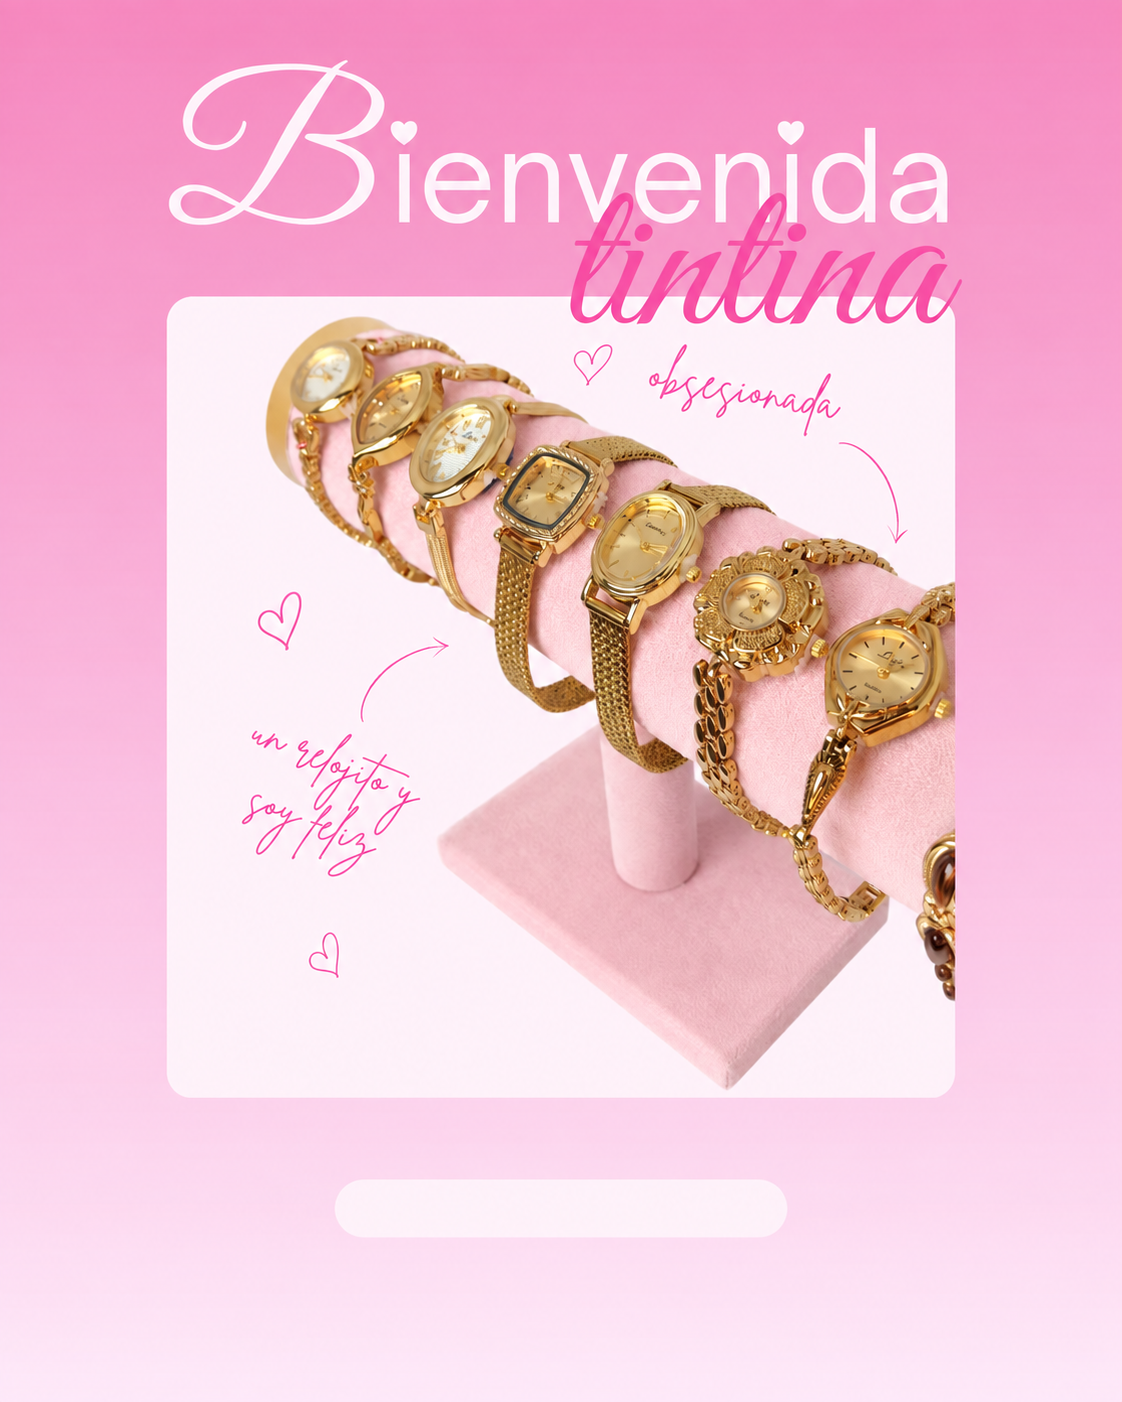
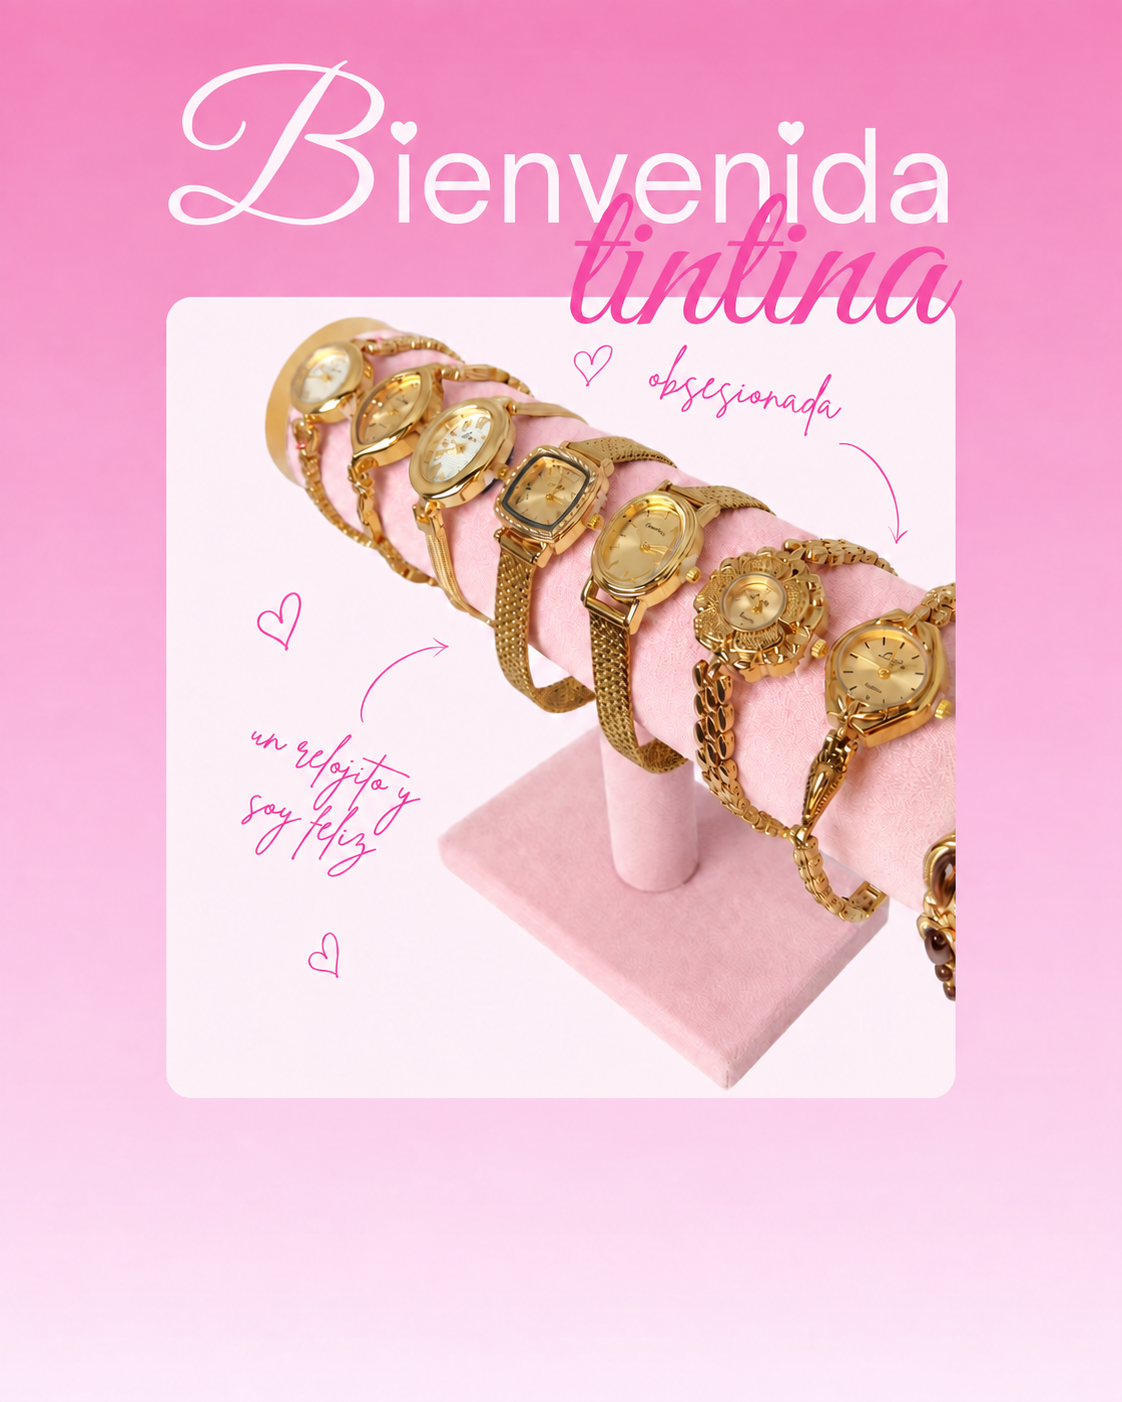
fix(home): quitar pastillas incrustadas del hero

diff --git a/index.html b/index.html
@@ -102,13 +102,13 @@
        como zonas interactivas accesibles sobre ella. -->
   <div class="tt-hero-media tt-hero-pending" id="tt-hero-media">
     <picture>
-      <source media="(max-width: 767px)" srcset="assets-tintin/images/home/hero-nuevo/hero-nuevo-mobile.png">
-      <source media="(min-width: 768px) and (max-width: 1120px) and (orientation: landscape)" data-tt-hero-device="tablet-landscape" srcset="assets-tintin/images/home/hero-nuevo/hero-nuevo-tablet-horizontal.png">
-      <source media="(max-width: 1120px)" data-tt-hero-device="tablet-portrait" srcset="assets-tintin/images/home/hero-nuevo/hero-nuevo-tablet-vertical.png">
+      <source media="(max-width: 767px)" srcset="assets-tintin/images/home/hero-nuevo/hero-nuevo-mobile.png?v=tintin-20260910-hero-button-clear-1">
+      <source media="(min-width: 768px) and (max-width: 1120px) and (orientation: landscape)" data-tt-hero-device="tablet-landscape" srcset="assets-tintin/images/home/hero-nuevo/hero-nuevo-tablet-horizontal.png?v=tintin-20260910-hero-button-clear-1">
+      <source media="(max-width: 1120px)" data-tt-hero-device="tablet-portrait" srcset="assets-tintin/images/home/hero-nuevo/hero-nuevo-tablet-vertical.png?v=tintin-20260910-hero-button-clear-1">
       <img
         id="tt-hero-img"
         class="tt-hero-img"
-        src="assets-tintin/images/home/hero-nuevo/hero-nuevo-desktop.png"
+        src="assets-tintin/images/home/hero-nuevo/hero-nuevo-desktop.png?v=tintin-20260910-hero-button-clear-1"
         alt=""
         width="1920"
         height="1080"
